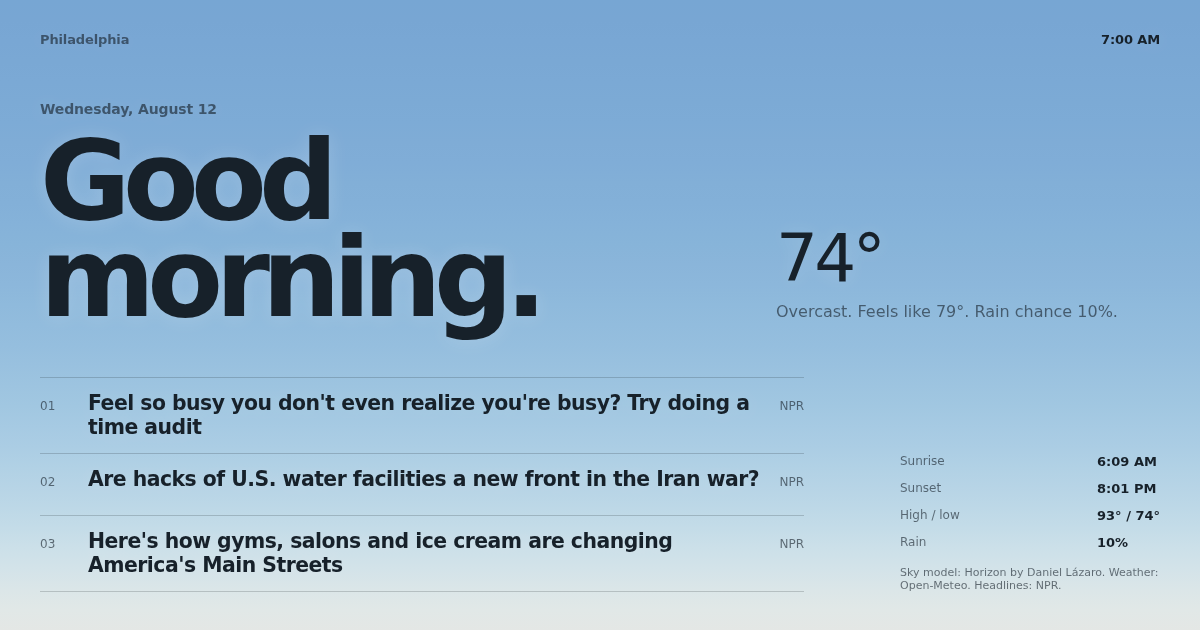
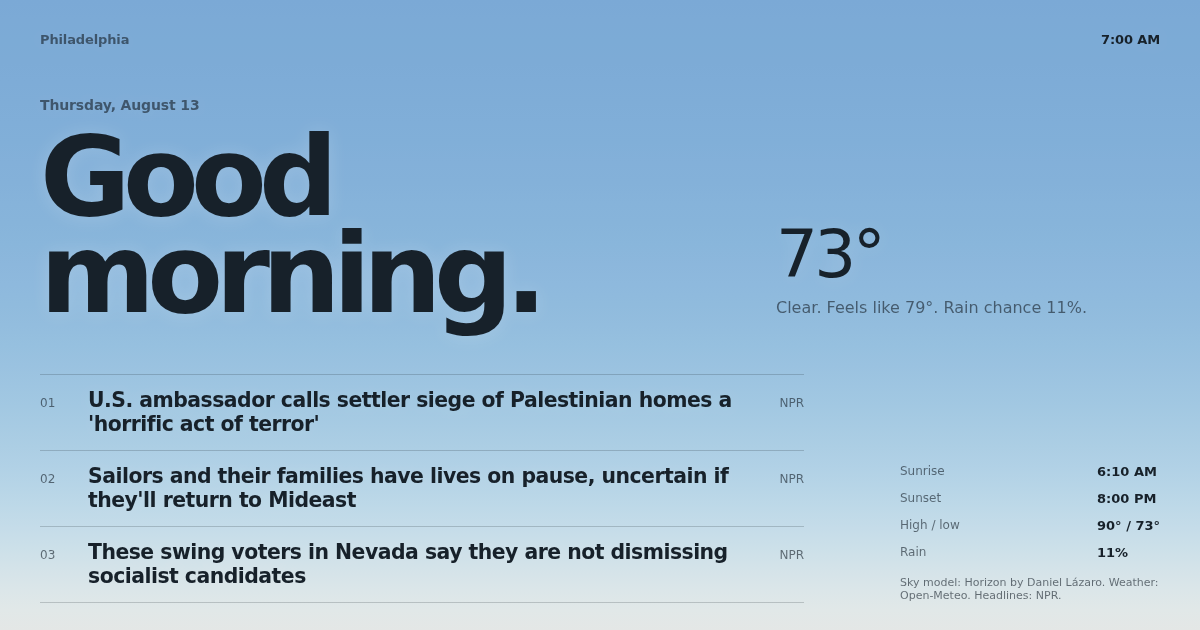
chore: refresh morning briefing 2026-08-13

diff --git a/index.html b/index.html
@@ -5,17 +5,17 @@
   <meta name="viewport" content="width=device-width, initial-scale=1">
   <meta name="color-scheme" content="light dark">
   <meta name="theme-color" content="#7595b2">
-  <meta name="description" content="Philadelphia morning briefing for 2026-08-12: Overcast. Feels like 79°. Rain chance 10%.">
+  <meta name="description" content="Philadelphia morning briefing for 2026-08-13: Clear. Feels like 79°. Rain chance 11%.">
   <meta property="og:type" content="website">
   <meta property="og:title" content="Philadelphia morning briefing">
-  <meta property="og:description" content="Overcast. Feels like 79°. Rain chance 10%. Three stories for Wednesday, August 12.">
-  <meta property="og:url" content="https://evan-luther.github.io/morning-briefing/?date=2026-08-12">
-  <meta property="og:image" content="https://evan-luther.github.io/morning-briefing/briefing.png?v=2026-08-12">
+  <meta property="og:description" content="Clear. Feels like 79°. Rain chance 11%. Three stories for Thursday, August 13.">
+  <meta property="og:url" content="https://evan-luther.github.io/morning-briefing/?date=2026-08-13">
+  <meta property="og:image" content="https://evan-luther.github.io/morning-briefing/briefing.png?v=2026-08-13">
   <meta property="og:image:width" content="1200">
   <meta property="og:image:height" content="630">
   <meta property="og:image:alt" content="Philadelphia morning sky with today's briefing">
   <meta name="twitter:card" content="summary_large_image">
-  <title>Morning Briefing | Wednesday, August 12</title>
+  <title>Morning Briefing | Thursday, August 13</title>
   <style>
     :root {
       --horizon: linear-gradient(to bottom, #7595b2, #dbb69d);
@@ -195,27 +195,27 @@
 
     <section class="lead" aria-labelledby="greeting">
       <div>
-        <p class="date">Wednesday, August 12</p>
+        <p class="date">Thursday, August 13</p>
         <h1 id="greeting">Good morning.</h1>
       </div>
       <div class="weather">
-        <div class="temperature">74°</div>
-        <p>Overcast. Feels like 79°. Rain chance 10%.</p>
+        <div class="temperature">73°</div>
+        <p>Clear. Feels like 79°. Rain chance 11%.</p>
       </div>
     </section>
 
     <section class="briefing" aria-label="Today's public briefing">
       <div class="stories">
-        <a class="story" href="https://www.npr.org/2026/08/12/nx-s1-5896356/find-time-for-things-that-matter-time-audit" target="_blank" rel="noreferrer"><span class="story-index">01</span><span class="story-title">Feel so busy you don&#x27;t even realize you&#x27;re busy? Try doing a time audit</span><span class="story-source">NPR</span></a>
-        <a class="story" href="https://www.npr.org/2026/08/12/nx-s1-5927437/cyberattack-water-iran-war" target="_blank" rel="noreferrer"><span class="story-index">02</span><span class="story-title">Are hacks of U.S. water facilities a new front in the Iran war?</span><span class="story-source">NPR</span></a>
-        <a class="story" href="https://www.npr.org/2026/08/12/nx-s1-5928083/retail-services-gyms-salons-restaurants-downtown-main-street" target="_blank" rel="noreferrer"><span class="story-index">03</span><span class="story-title">Here&#x27;s how gyms, salons and ice cream are changing America&#x27;s Main Streets</span><span class="story-source">NPR</span></a>
+        <a class="story" href="https://www.npr.org/2026/08/13/g-s1-138574/us-west-bank-settlers" target="_blank" rel="noreferrer"><span class="story-index">01</span><span class="story-title">U.S. ambassador calls settler siege of Palestinian homes a &#x27;horrific act of terror&#x27;</span><span class="story-source">NPR</span></a>
+        <a class="story" href="https://www.npr.org/2026/08/13/nx-s1-5929463/evacuation-bahrain-troops-iran-war" target="_blank" rel="noreferrer"><span class="story-index">02</span><span class="story-title">Sailors and their families have lives on pause, uncertain if they&#x27;ll return to Mideast</span><span class="story-source">NPR</span></a>
+        <a class="story" href="https://www.npr.org/2026/08/13/nx-s1-5929406/nevada-economy-socialism-focus-groups" target="_blank" rel="noreferrer"><span class="story-index">03</span><span class="story-title">These swing voters in Nevada say they are not dismissing socialist candidates</span><span class="story-source">NPR</span></a>
       </div>
       <div>
         <div class="daylight">
-          <span>Sunrise</span><strong>6:09 AM</strong>
-          <span>Sunset</span><strong>8:01 PM</strong>
-          <span>High / low</span><strong>93° / 74°</strong>
-          <span>Rain</span><strong>10%</strong>
+          <span>Sunrise</span><strong>6:10 AM</strong>
+          <span>Sunset</span><strong>8:00 PM</strong>
+          <span>High / low</span><strong>90° / 73°</strong>
+          <span>Rain</span><strong>11%</strong>
         </div>
         <div class="attribution">Sky model: Horizon by Daniel Lázaro. Weather: Open-Meteo. Headlines: NPR.</div>
       </div>
